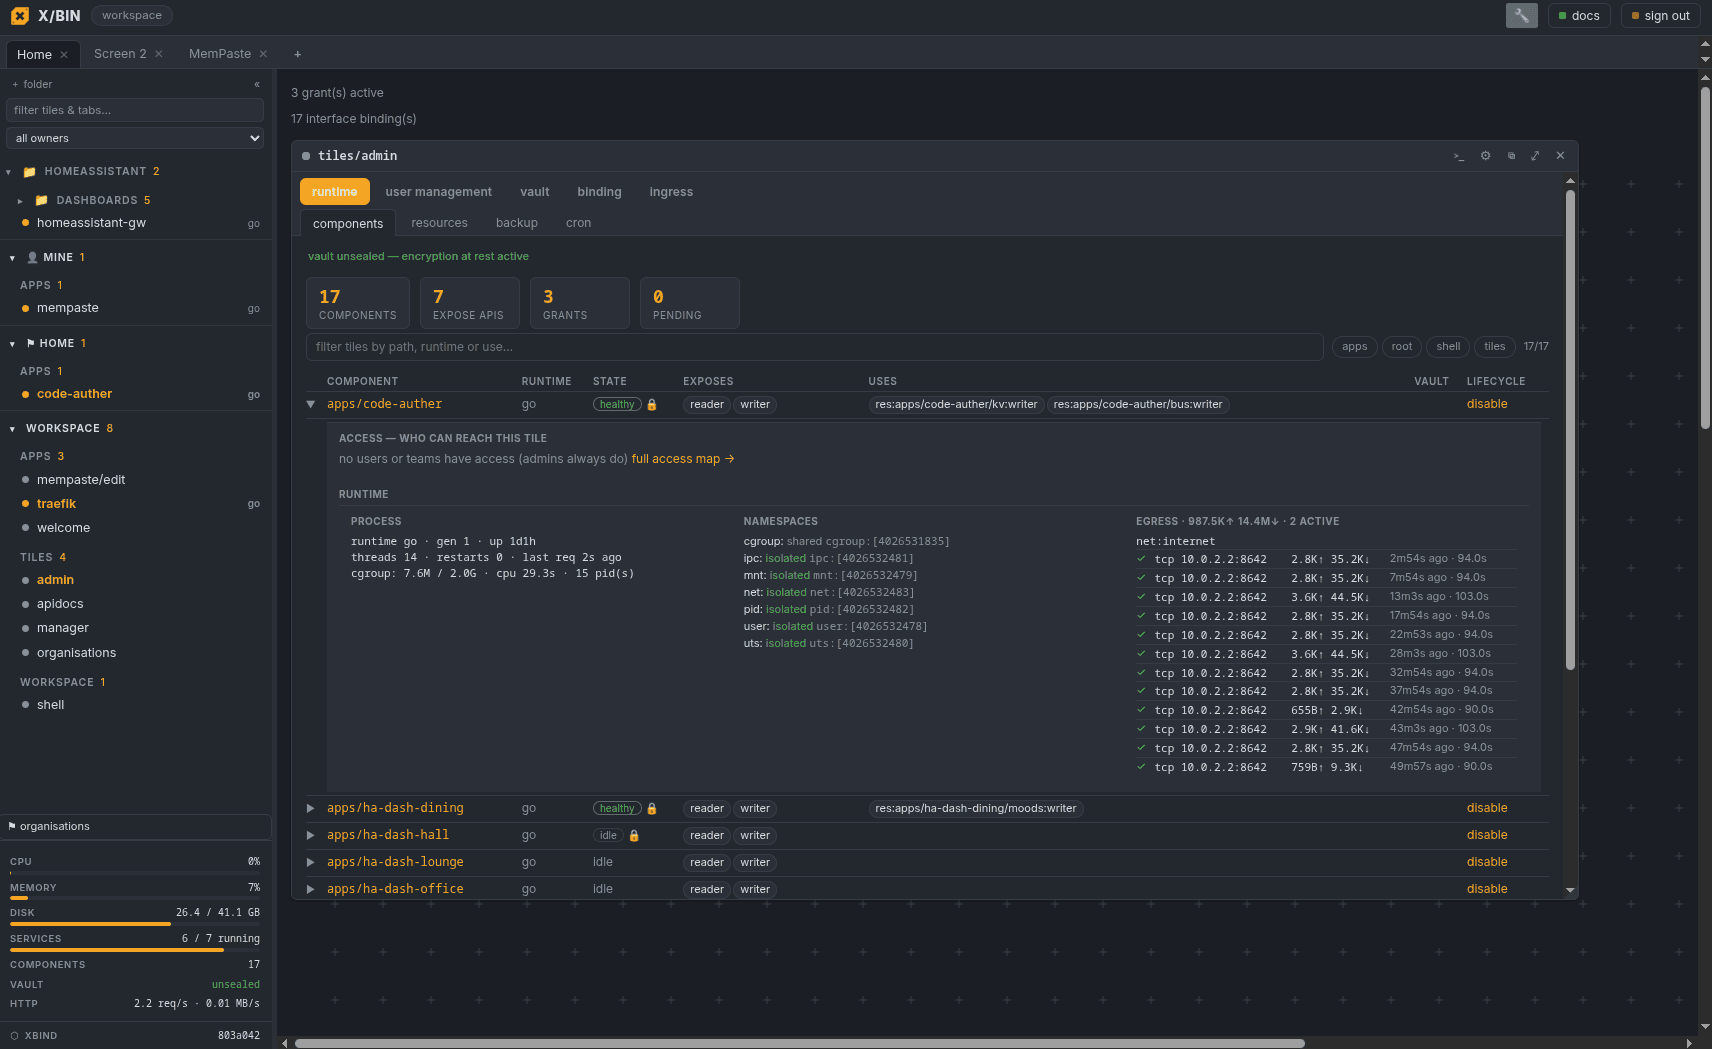
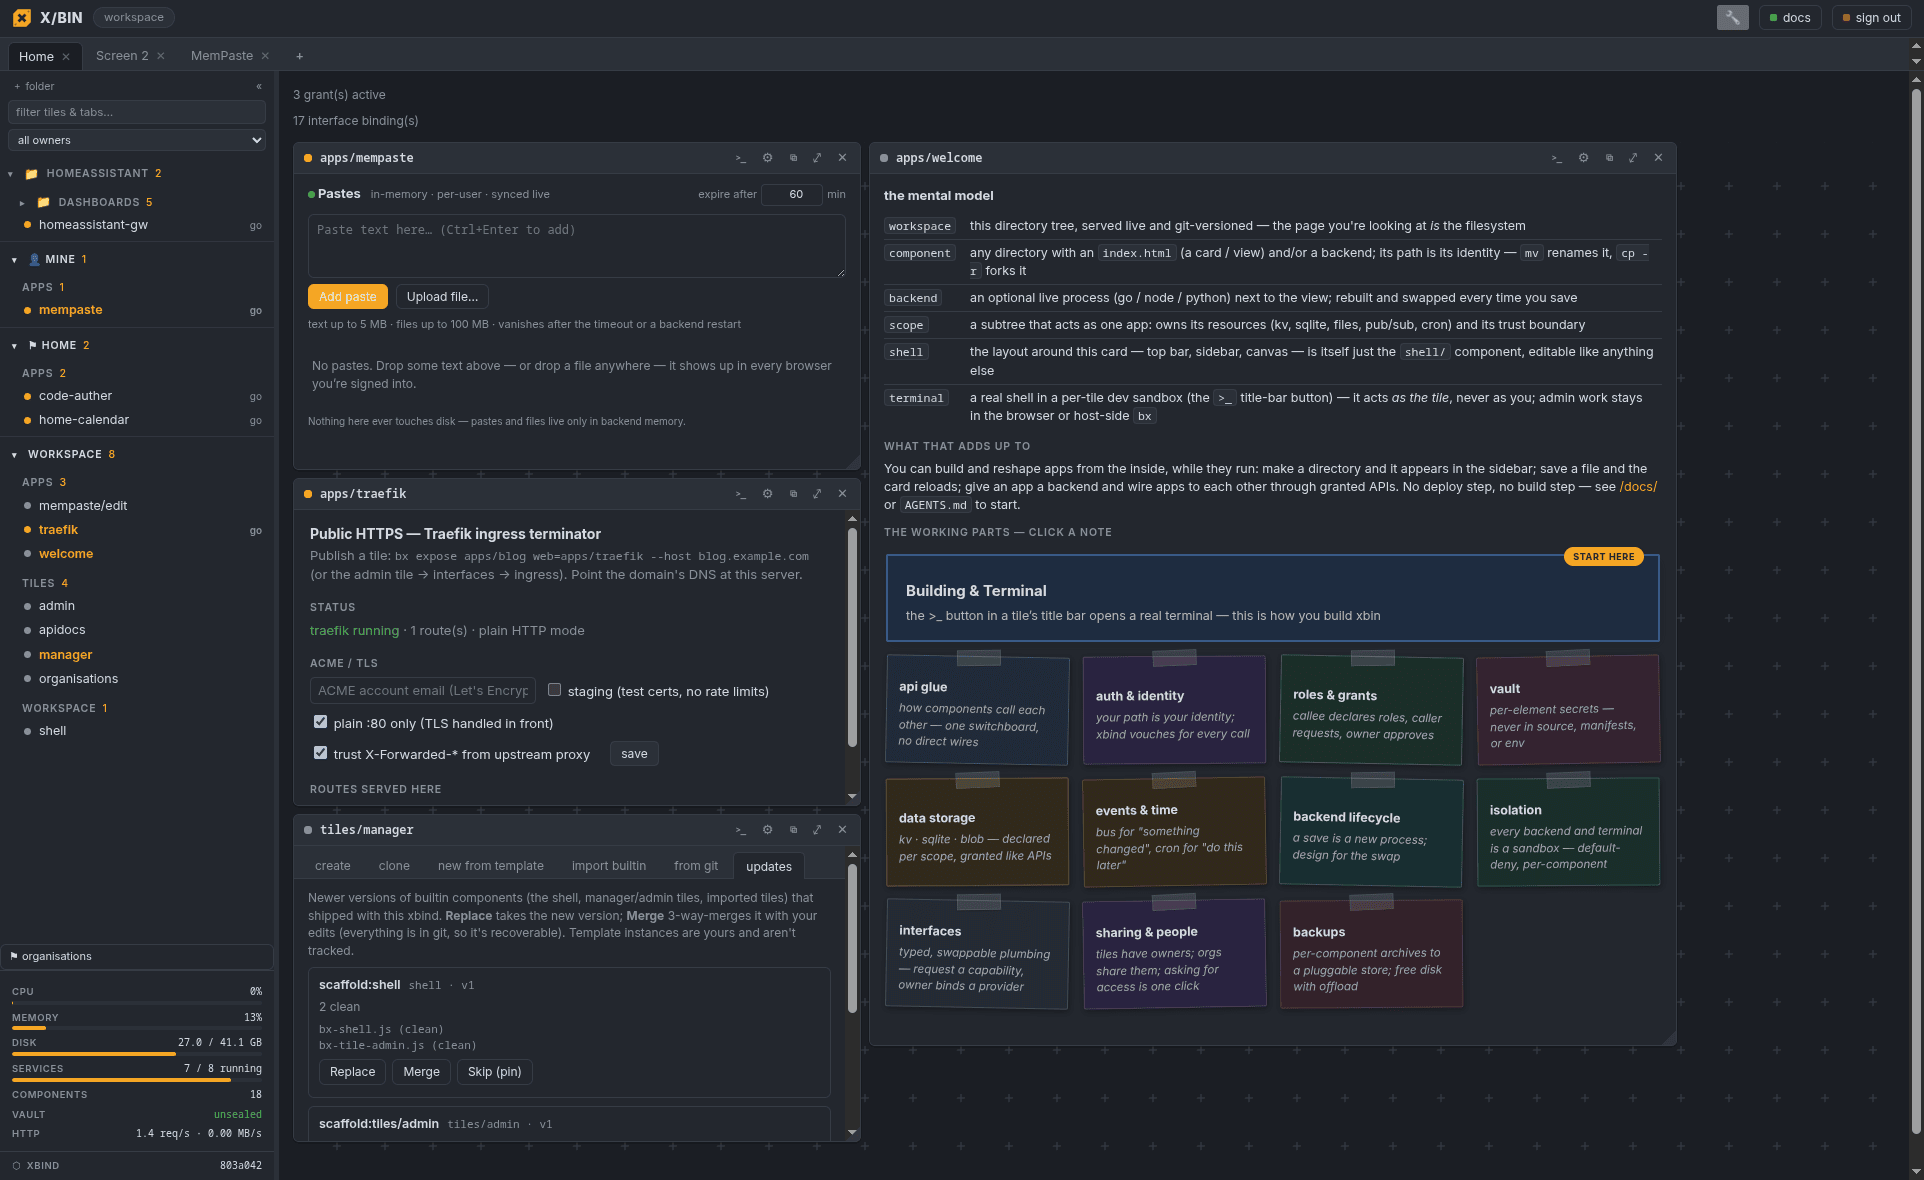
website: new overview screenshot — floating-tile canvas
The lead shot is now a canvas of floating tiles (mempaste, Traefik
ingress, manager updates, welcome notes) instead of the admin tile;
caption and alt text updated to match. overview-wide.png dropped
(browser chrome showed a private URL; unused by the page).

diff --git a/website/index.html b/website/index.html
@@ -622,9 +622,10 @@ $ <span class="a">bx</span> expose apps/dashboard web <span class="m">\</span>
     </div>
     <figure class="shot lead">
       <img src="shots/overview-shell.png" loading="lazy"
-        alt="the xbin shell: a sidebar of tiles, and the admin tile listing every component with its runtime, sandbox namespaces, and live egress connections">
-      <figcaption><span class="sn">●</span>One workspace, one daemon: tiles in the sidebar; the admin
-        tile shows every component's runtime, sandbox namespaces, and live egress.</figcaption>
+        alt="the xbin shell: a canvas of floating tiles — a paste bin, the Traefik ingress terminator, the manager's updates pane, and the welcome tile's notes — beside a sidebar of orgs and apps">
+      <figcaption><span class="sn">●</span>One workspace, one daemon: a canvas of floating tiles — a
+        paste bin, the Traefik ingress tile, the manager's updates, the built-in orientation notes —
+        with every app and org in the sidebar.</figcaption>
     </figure>
 
     <div class="flow-h"><h3>Change a tile</h3><span>an in-memory paste bin gains file uploads</span></div>
